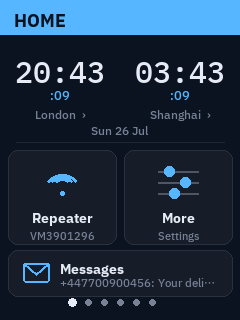
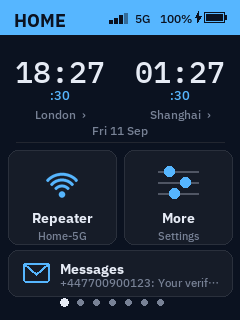
Refresh README screenshots and text for the current UI
All screenshots re-rendered on a real GL-E5800 (firmware 4.10.0) from
the current code. Signal/bands, weather, rates, system stats and battery
are live; phone number, SMS, WireGuard peers, OpenClash nodes and nearby
Wi-Fi names are synthetic, as before.

New: SIM toggle confirmation, Monitor speed test, Games hub.

README: seven panels (Games was missing), new Active SIM layout
(network type, signal, carrier, band/CA chips) and confirm-then-verify
toggles replacing the old optimistic Data toggle description, WireGuard
via AutoVPN route_policy + vpn-client instead of wgclient/ifup (plus how
to remove the leftover network.wgclient), header battery, speed test,
firmware 4.10.0 support and the Pillow 9.5 rounded-rectangle pitfall.

diff --git a/README.md b/README.md
@@ -1,7 +1,7 @@
 # GL-E5800 Touch Dashboard
 
 A custom, fully interactive replacement for the stock `gl_screen` UI on the
-GL.iNet GL-E5800's built-in 240x320 touchscreen. Swipe between six panels,
+GL.iNet GL-E5800's built-in 240x320 touchscreen. Swipe between seven panels,
 tap into any of them for detail or control, and manage the router without
 ever opening the web UI.
 
@@ -20,6 +20,10 @@ RGB565). Pure Python, one file.
 | Weather | Currency | OpenClash |
 |---|---|---|
 | ![Weather](screenshots/panel_weather.png) | ![Currency](screenshots/panel_fx.png) | ![OpenClash](screenshots/panel_openclash.png) |
+
+| Games |
+|---|
+| ![Games](screenshots/panel_games.png) |
 
 **Home** — two small clocks (independently pickable cities/timezones,
 digital by default, switchable to analog from More), today's date, and
@@ -47,45 +51,69 @@ header), not UTF-8 text, confirmed against a real received message.
 
 *(Numbers and message content above are synthetic/demo data.)*
 
-**Active SIM** — country flag, full number, and three same-sized toggles:
-**Net** (network registration/attach — SMS and calls work even without a
-cellular data session), **Data** (the actual cellular data session), and
-**Roam** (data roaming permission for this SIM). A SIM1 / eSIM switch
-(SIM2 was removed: it and eSIM share the same physical slot on this
-hardware and behaved identically, so it wasn't a real third option), a
-data-usage bar against a cap you set (now a scrollable list, 500MB up to
-1000GB), and a **WireGuard** button.
+**Active SIM** — country flag, number, and a live cellular status card:
+network type in phone terms (**4G / 4G+ / 5G NSA / 5G SA**), signal bars
+and primary-carrier RSRP, and the serving carrier's name. Under the SIM1 /
+eSIM switch, a row of chips shows **every band the modem is connected on
+right now** — primary carrier filled, secondaries outlined, 5G NR bands
+in blue — with a carrier-aggregation summary (e.g. *5 bands · 160 MHz*).
+Three toggles: **Net** (network registration — off is airplane mode),
+**Data** (the cellular data session) and **Roam** (data roaming for this
+SIM), plus a data-usage bar against a cap you set (500 MB up to 1000 GB)
+and a **WireGuard** button. (SIM2 was removed from the switch: it and eSIM
+share the same physical slot on this hardware and behaved identically.)
 
-The Data toggle shows optimistic feedback (flips immediately on tap) and
-only re-confirms after 2s and snaps back if it didn't take **when a
-repeater/ethernet WAN is already active** — this router's own multi-WAN
-manager can silently revert a manual cellular connect in that case. With
-no competing WAN, the tap is trusted outright and left to connect in the
-background, since there's nothing to revert it.
+| Active SIM | Toggle confirmation |
+|---|---|
+| ![SIM](screenshots/panel_sim.png) | ![Confirm](screenshots/panel_sim_confirm.png) |
 
-**WireGuard** — lists every peer config already added on the router
-(GL.iNet stores each as its own `wireguard.peer_NNNN` UCI section) with a
-toggle to bring it up or down. Turning one on points the router's single
-`wgclient` network interface at that peer's config and brings it up
-(`ifup`); turning it off tears it down (`ifdown`) — the same mechanism
-the router's own firmware uses (confirmed by reading the actual netifd
-proto script and hotplug handlers, not guessed), so no separate/parallel
-VPN config path is created.
+Every toggle **asks for confirmation first** (each one can cut the
+router's internet or run up a roaming bill), then applies under a spinner
+that polls the *real* state — registration, the `modem_cpu` interface,
+the stored roaming setting — until it matches, with a live caption
+("Registering… 12s"). If the change doesn't take (e.g. the router's own
+multi-WAN manager reverts a manual cellular change), the toggle shows the
+real state and a short notice says why, instead of pretending it worked.
+
+**WireGuard** — lists every peer config on the router (GL.iNet stores each
+as its own `wireguard.peer_NNNN` UCI section — hundreds of them if you've
+imported a provider's server list), with country quick-filter chips and a
+toggle per peer. Connecting goes through GL.iNet's own AutoVPN
+route-policy rule + `vpn-client` service — the same path the stock app
+uses, confirmed by diffing the config before and after connecting from the
+app. The spinner waits until the tunnel is actually up.
 
 ![WireGuard](screenshots/panel_wireguard.png)
 
-*(Peer name above is synthetic/demo data.)*
+*(Peer names above are synthetic/demo data.)*
 
 Every panel's colored header also shows, phone-status-bar style: cellular
-signal bars + radio tech (4G/5G) when the modem has signal, and the
-active WAN connection type (Repeater/Ethernet/4G/5G) — each shown
-independently, hidden entirely when not applicable, refreshed
-periodically.
+signal bars + radio tech (4G/4G+/5G), the active WAN connection type
+(Repeater/Ethernet/4G/5G), and **battery level with a charging bolt**
+(read from the fuel gauge in `/sys/class/power_supply`). When a long
+panel title leaves too little room, the least important items drop out
+first (the %, then the tech label, then the bars).
 
 **Monitor** — bandwidth (down/up Mbps on whichever interface currently holds
 the default route, so it keeps tracking the right link through a WAN
-failover), CPU%, RAM used/total, SoC temperature, and uptime. Read-only,
-refreshes every 2 seconds.
+failover), CPU%, RAM used/total, SoC temperature, and uptime, refreshed
+every 2 seconds — plus a **Speed test** button.
+
+**Speed test** (from Monitor) — a short download + upload test against
+Cloudflare's speed-test servers: 4 parallel streams, ~6s each way, the
+first second of each excluded (TCP ramp-up), with a live gauge in Mbps.
+Throughput is counted from the test's own streams, not the WAN
+interface's counters — those include every LAN client's traffic too.
+Capped at 250 MB down / 80 MB up so a fast 5G link can't burn unlimited
+mobile data, and the screen shows how much it used. Leaving the screen
+cancels a running test.
+
+| Monitor | Speed test |
+|---|---|
+| ![Monitor](screenshots/panel_monitor.png) | ![Speed test](screenshots/panel_speedtest.png) |
+
+**Games** — Snake, Flappy, Breakout and 2048, with best scores kept
+across restarts.
 
 **Weather** — 3-day forecast (hand-drawn icons: sun/cloud/rain/snow/fog/storm)
 for a city you pick from an alphabetically-sorted, scrollable list of 40+
@@ -149,7 +177,7 @@ pop-up keyboard. Two layers (letters/symbols), persistent caps toggle.
 
 ## Interaction
 
-- **Swipe** left/right between the 6 main panels — real finger-tracking,
+- **Swipe** left/right between the 7 main panels — real finger-tracking,
   then a velocity-aware snap: a page commits on either enough travel (30%
   of the width) *or* enough release speed, so a quick flick pages instead
   of springing back. The settle animation takes its duration from the
@@ -189,7 +217,8 @@ pop-up keyboard. Two layers (letters/symbols), persistent caps toggle.
 ## Requirements
 
 Built and tested specifically on a **GL.iNet GL-E5800**, OpenWrt 23.05.4,
-GL firmware 4.8.x. It depends on hardware/paths specific to this model:
+GL firmware 4.8.x and 4.10.0. It depends on hardware/paths specific to
+this model:
 
 - 240x320 RGB565 framebuffer at `/dev/fb0`
 - Capacitive touchscreen at `/dev/input/event0` (Multitouch protocol B)
@@ -318,14 +347,25 @@ There's no settings UI for these — edit directly:
   (an initial UTF-8-decode-everything approach produced mojibake).
   `_parse_sms_file()` decodes based on that header field rather than
   assuming one encoding for the whole file.
-- **WireGuard peers and the actual network interface are separate
-  layers.** GL.iNet stores each added peer as its own
-  `wireguard.peer_NNNN` UCI section (keys, endpoint, allowed_ips), but
-  that's just configuration -- nothing carries traffic until a
-  `network.wgclient` interface (`proto=wgclient`, `config=<peer
-  section>`) exists and is `ifup`'d. Confirmed by reading
-  `/lib/netifd/proto/wgclient.sh` and the wireguard hotplug scripts
-  rather than guessing at an undocumented RPC.
+- **WireGuard: `wgclient` + `ifup` looks right but isn't.** Reading
+  `/lib/netifd/proto/wgclient.sh` alone, pointing a `network.wgclient`
+  interface at a `wireguard.peer_NNNN` section and `ifup`-ing it looks
+  complete -- and works for a peer added by hand. Peers imported from a
+  provider's server list (e.g. NordVPN) carry no keys or endpoint at
+  all, so that interface sits at `pending` forever. The real path is
+  GL.iNet's AutoVPN `route_policy` rule + the `vpn-client` service, which
+  fetches the key material itself; found by diffing the config before and
+  after connecting from the stock app. (Versions before that fix left a
+  `network.wgclient` interface behind that netifd retries every few
+  seconds; `uci delete network.wgclient && uci commit network` removes it.)
+- **Firmware 4.10.0 moved the modem's signal info.** `cellular.network
+  info` no longer carries `cell_info`; it's now its own `cellular.network
+  cell_info` method, with one entry per aggregated carrier. The new
+  location is read first and the 4.8.x one kept as a fallback.
+- **Pillow 9.5 (what this firmware ships) raises on very short rounded
+  rectangles** ("x1 must be greater than or equal to x0") -- anything
+  that starts at zero length, like a progress bar, must be drawn another
+  way (`_draw_pill`), or the exception takes the whole dashboard down.
 - **Open-Meteo's air-quality API has no daily-aggregate parameter** (a
   `daily=us_aqi_max` request errors out — confirmed live) — only hourly
   data is available, so `fetch_air_quality()` aggregates the daily max
